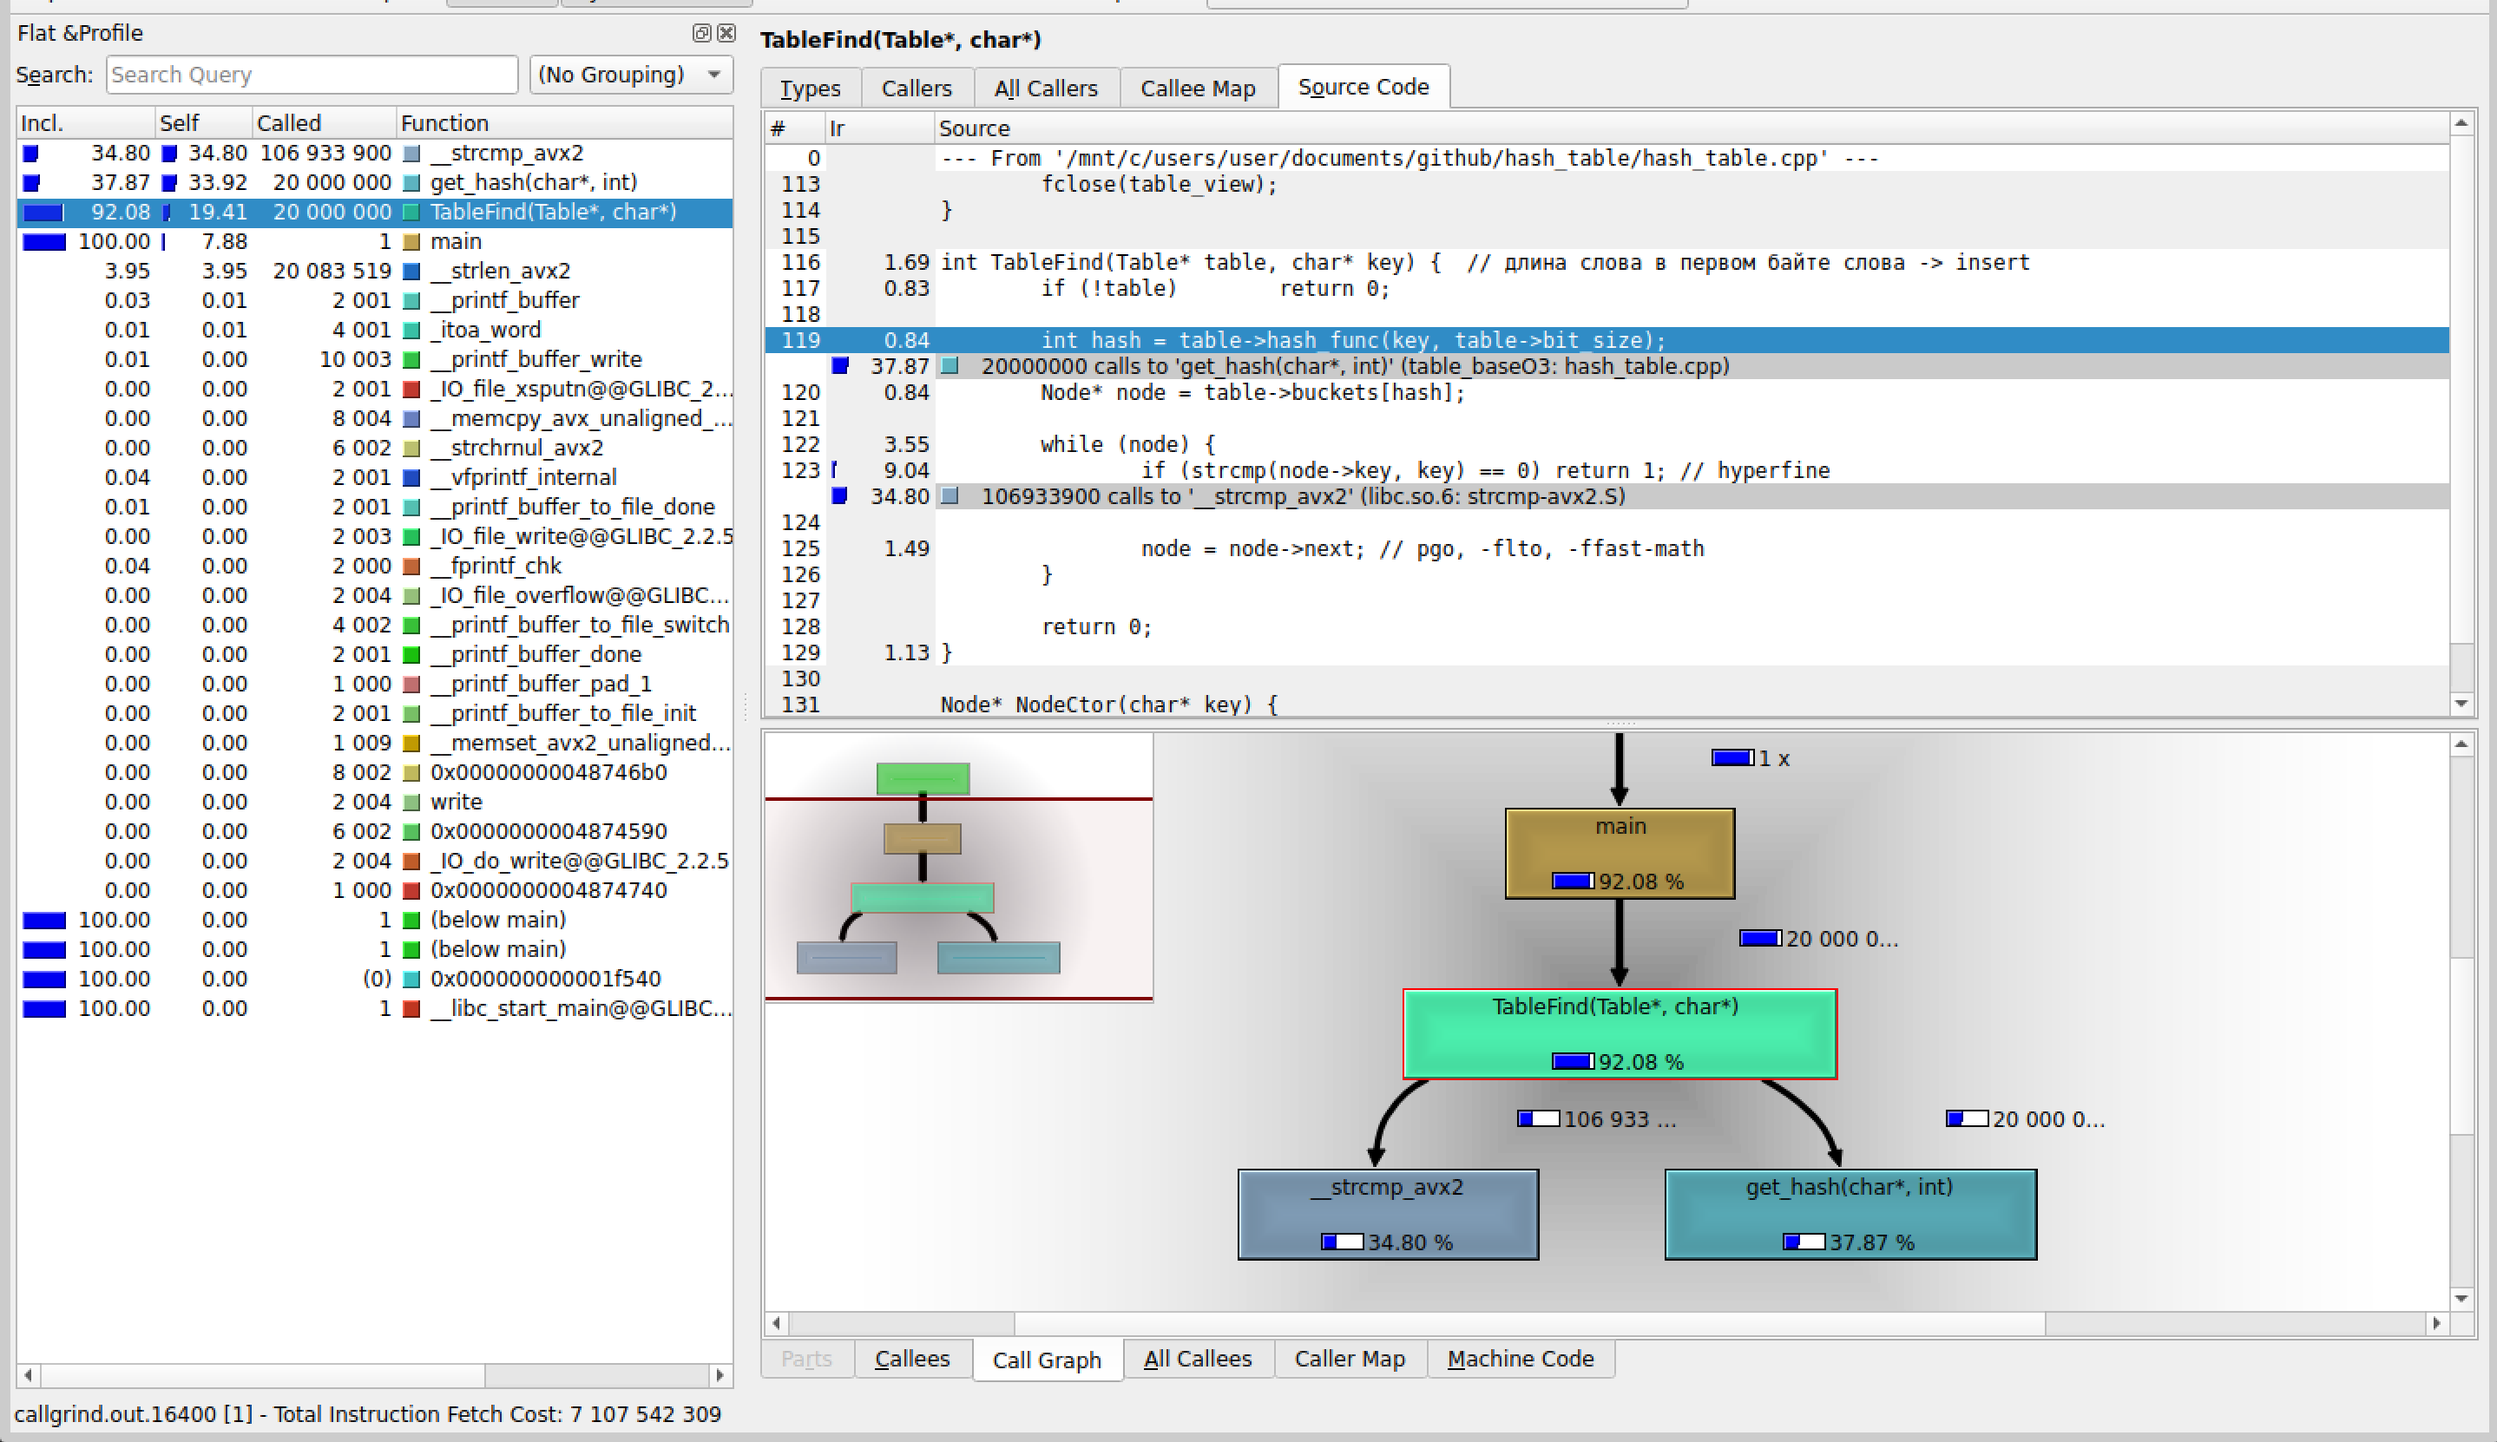
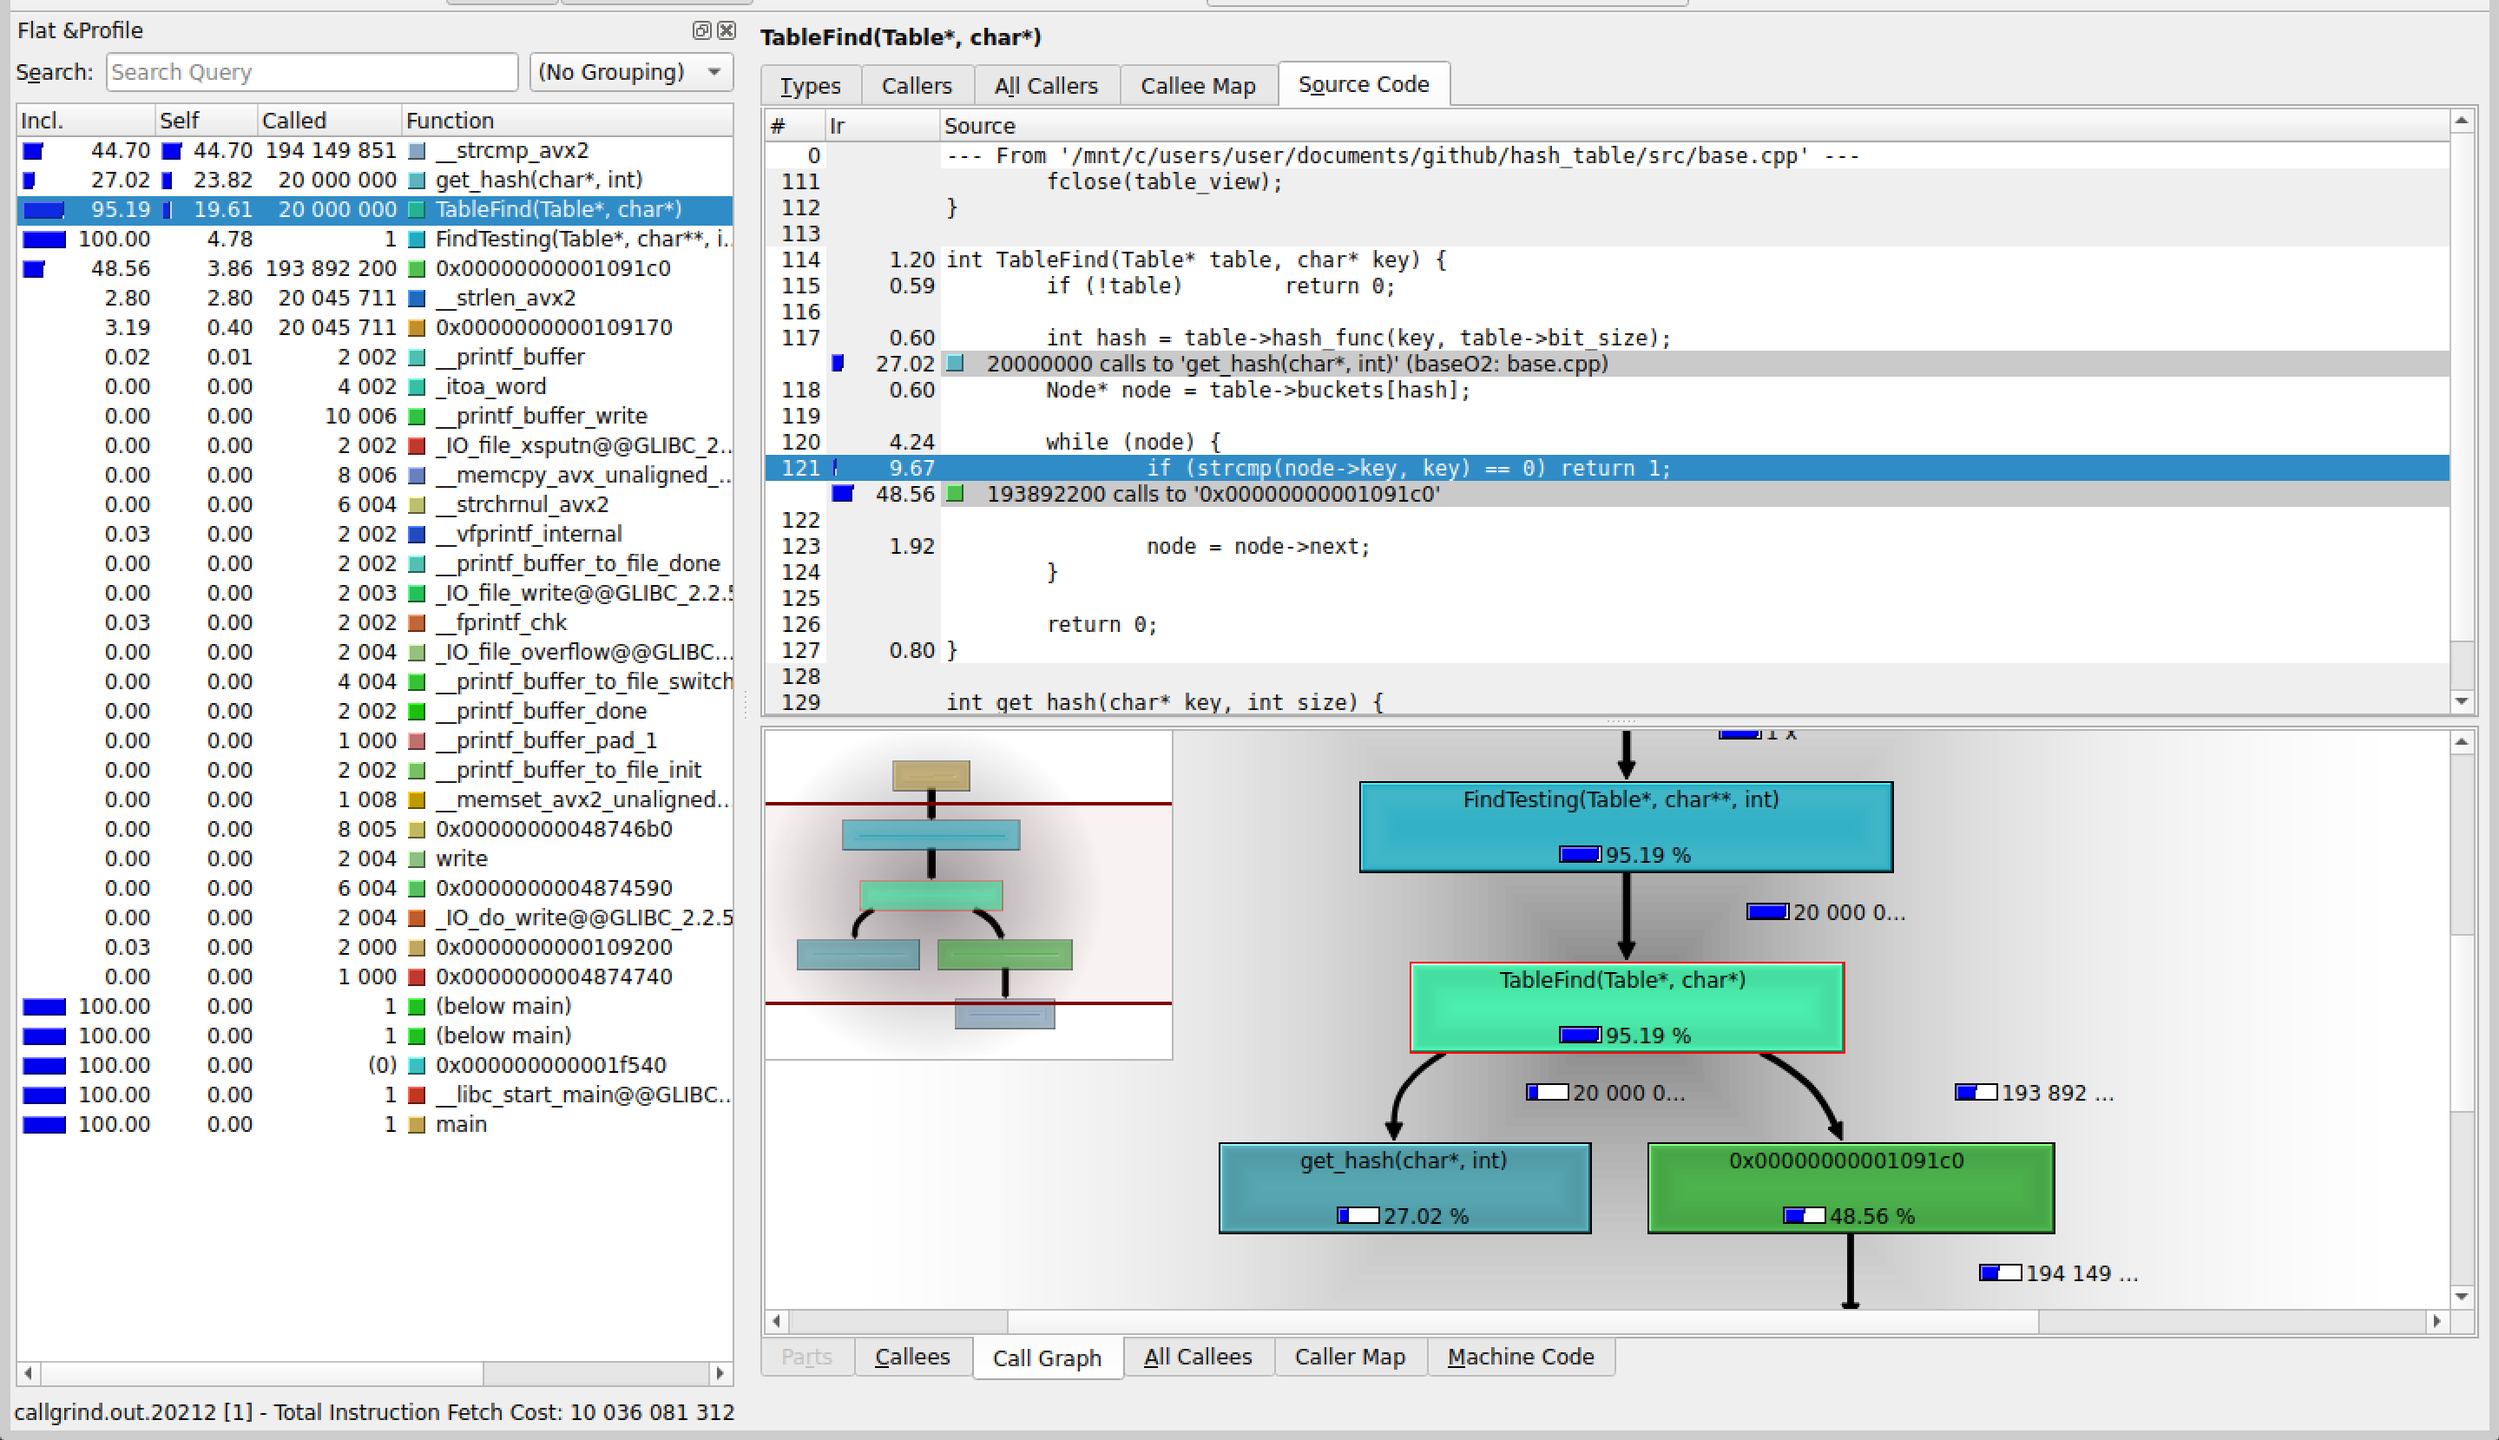
Результаты измерений
Посчитаны результаты измерений

diff --git a/results/common_results.md b/results/common_results.md
@@ -1,19 +1,19 @@
-## Без оптимизаций, с -O3:
+## Без оптимизаций, с -O2:
 | Номер замера | Среднее количество тиков |
 | :---: | :---: |
-| 1 | 322 |
-| 2 | 329 |
-| 3 | 330 |
-| 4 | 331 |
-| 5 | 331 |
-| 6 | 331 |
-| 7 | 335 |
+| 1 | 439 |
+| 2 | 440 |
+| 3 | 447 |
+| 4 | 448 |
+| 5 | 448 |
+| 6 | 449 |
+| 7 | 450 |
 
-Результаты без минимума и максимума: $329$,  $330$,  $331$,  $331$,  $331$
+Результаты без минимума и максимума: $440$,  $447$,  $448$,  $448$,  $449$
 
-Среднее количество тиков на <i>TableFind</i>: $330$
+Среднее количество тиков на <i>TableFind</i>: $446$
 
-Погрешность: $1.11\%$
+Относительная погрешность: $0.93\%$
 
 ![До оптимизаций](../images/base.png)
 
@@ -49,25 +49,27 @@ my_strcmp:
 
 | Номер замера | Среднее количество тиков |
 | :---: | :---: |
-| 1 | 277 |
-| 2 | 278 |
-| 3 | 282 |
-| 4 | 289 |
-| 5 | 290 |
-| 6 | 290 |
-| 7 | 297 |
+| 1 | 373 |
+| 2 | 374 |
+| 3 | 374 |
+| 4 | 376 |
+| 5 | 376 |
+| 6 | 377 |
+| 7 | 381 |
 
-Результаты без минимума и максимума: $278$,  $282$,  $289$,  $290$,  $290$
+Результаты без минимума и максимума: $374$,  $374$,  $376$,  $376$,  $377$
 
-Среднее количество тиков на <i>TableFind</i>:  $285$
+Среднее количество тиков на <i>TableFind</i>:  $375$
 
-Погрешность: $2.38\%$
+Относительная погрешность: $0.67\%$
 
-Получили ускорение на $\frac{330 - 285}{330} * 100 = 13.64 \pm 0.36$ $\%$ относительно O3.
+Получили ускорение на $\frac{446 - 375}{446} * 100 = 15.92\% \pm 0.18$ $\%$ относительно -O2.
 
-Абсолютная погрешность: $13.64 * \frac{\sqrt{1.11^2+2.38^2}}{100} = 13.64 * 0.0263 = 0.36\%$
+Абсолютная погрешность: $15.92\% * \frac{\sqrt{0.93^2+0.67^2}}{100} = 15.92\% * 0.0115 = 0.18\%$
 
-![3-я оптимизация](../images/1_opt_4.png)
+Относительная погрешность ускорения: $1.15\%$
+
+![3-я оптимизация](../images/opt_strcmp.png)
 
 ## Замена crc32 на intrinsic-и:
 
@@ -90,31 +92,35 @@ inline unsigned int opt_crc32(const uchar* data, int len) {
 
 | Номер замера | Среднее количество тиков |
 | :---: | :---: |
-| 1 | 266 |
-| 2 | 268 |
-| 3 | 269 |
-| 4 | 270 |
-| 5 | 272 |
-| 6 | 272 |
-| 7 | 273 |
+| 1 | 352 |
+| 2 | 355 |
+| 3 | 356 |
+| 4 | 357 |
+| 5 | 358 |
+| 6 | 363 |
+| 7 | 370 |
 
-Результаты без минимума и максимума: $268$,  $269$,  $270$,  $272$,  $272$
+Результаты без минимума и максимума: $355$,  $356$,  $357$,  $358$,  $363$
 
-Среднее количество тиков на <i>TableFind</i>: $270$
+Среднее количество тиков на <i>TableFind</i>: $358$
 
-Погрешность: $0.86\%$
+Относительная погрешность: $1.57\%$
 
 Полученное ускорение:
 
-$\cdot$ на $(285 - 270) / 285	* 100 = 5.26 \pm 0.13$ $\%$ относительно предыдущей оптимизации.
+$\cdot$ на $(375 - 358) / 375	* 100 = 4.53\% \pm 0.08$ $\%$ относительно предыдущей оптимизации.
 
-Погрешность: $5.26 * \frac{\sqrt{0.86^2+2.38^2}}{100} = 13.64 * 0.0263 = 0.13\%$
+Абсолютная погрешность: $4.53\% * \frac{\sqrt{0.67^2+1.57^2}}{100} = 4.53\% * 0.0171 = 0.08\%$
 
-$\cdot$ на $(330 - 270) / 330 * 100 = 18.18 \pm 0.26$ $\%$ относительно O3.
+Относительная погрешность: $1.71\%$
 
-Погрешность: $18.18 * \frac{\sqrt{0.86^2+1.11^2}}{100} = 13.64 * 0.0263 = 0.26\%$
+$\cdot$ на $(446 - 358) / 446 * 100 = 19.73\% \pm 0.36$ $\%$ относительно -O2.
 
-![1-я оптимизация](../images/2_opt_4.png)
+Абсолютная погрешность: $19.73\% * \frac{\sqrt{0.93^2+1.57^2}}{100} = 19.73\% * 0.0182 = 0.36\%$
+
+Относительная погрешность: $1.82\%$
+
+![1-я оптимизация](../images/opt_crc32.png)
 
 ## Замена strlen на ассемблерную вставку:
 
@@ -144,18 +150,21 @@ int get_hash(char* key, int size) {
 
 | Номер замера | Среднее количество тиков |
 | :---: | :---: |
-| 1 | 3144 |
-| 2 | 3192 |
-| 3 | 3121 |
-| 4 | 3125 |
-| 5 | 3119 |
+| 1 | 375 |
+| 2 | 381 |
+| 3 | 382 |
+| 4 | 382 |
+| 5 | 385 |
+| 6 | 385 |
+| 7 | 394 |
 
-Результаты без минимума и максимума: <b>3121</b>, <b>3125</b>, <b>3144</b>
+Результаты без минимума и максимума: $381$,  $382$,  $382$,  $385$,  $385$
 
-Среднее количество тиков на <i>TableFind</i>:  <b>3130</b>
+Среднее количество тиков на <i>TableFind</i>:  $383$
 
-Получили, что оптимизация не сработала (на 3.23% стало медленнее). :(
+Относительная погрешность: $1.39\%$
 
-![3-я оптимизация](../images/3_opt_2.png)
-![3-я оптимизация](../images/3_opt_2_3.png)
+Получили, что оптимизация не сработала (на $6.98\% \pm 0.15\%$ стало медленнее) :(
+
+![3-я оптимизация](../images/opt_strlen.png)
 
